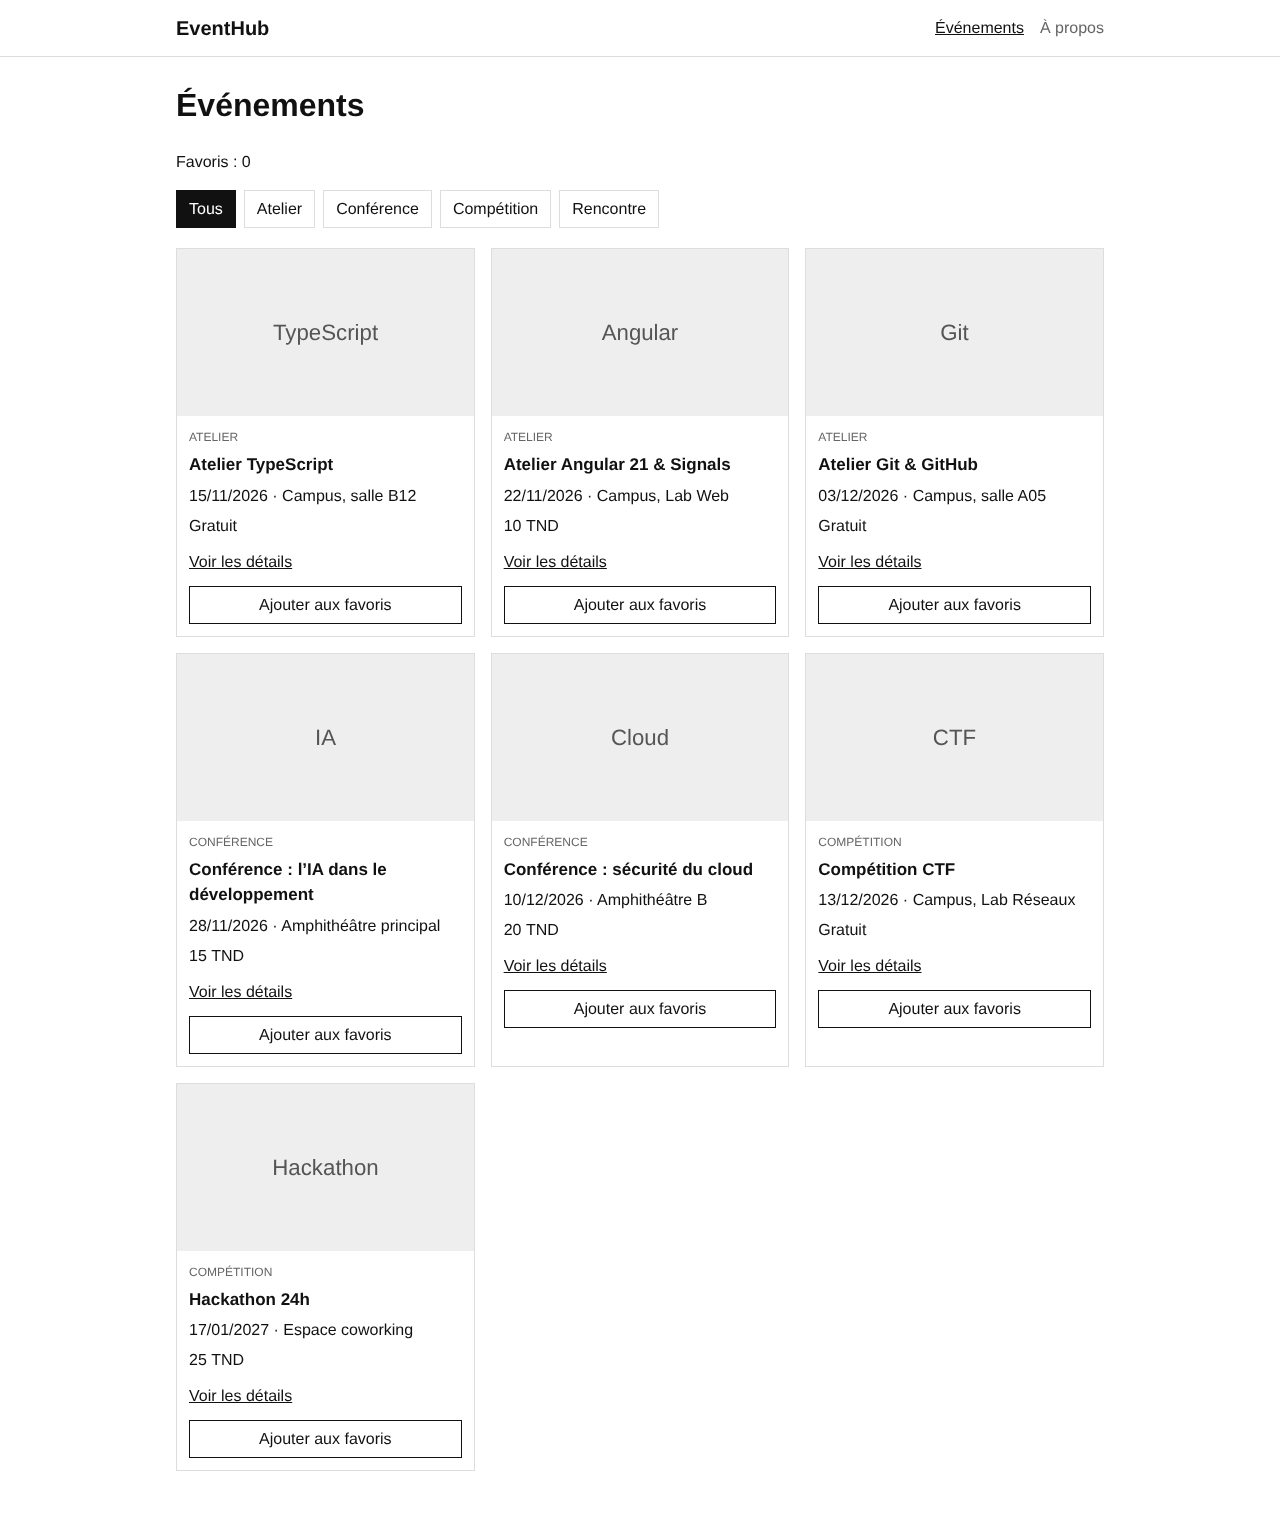
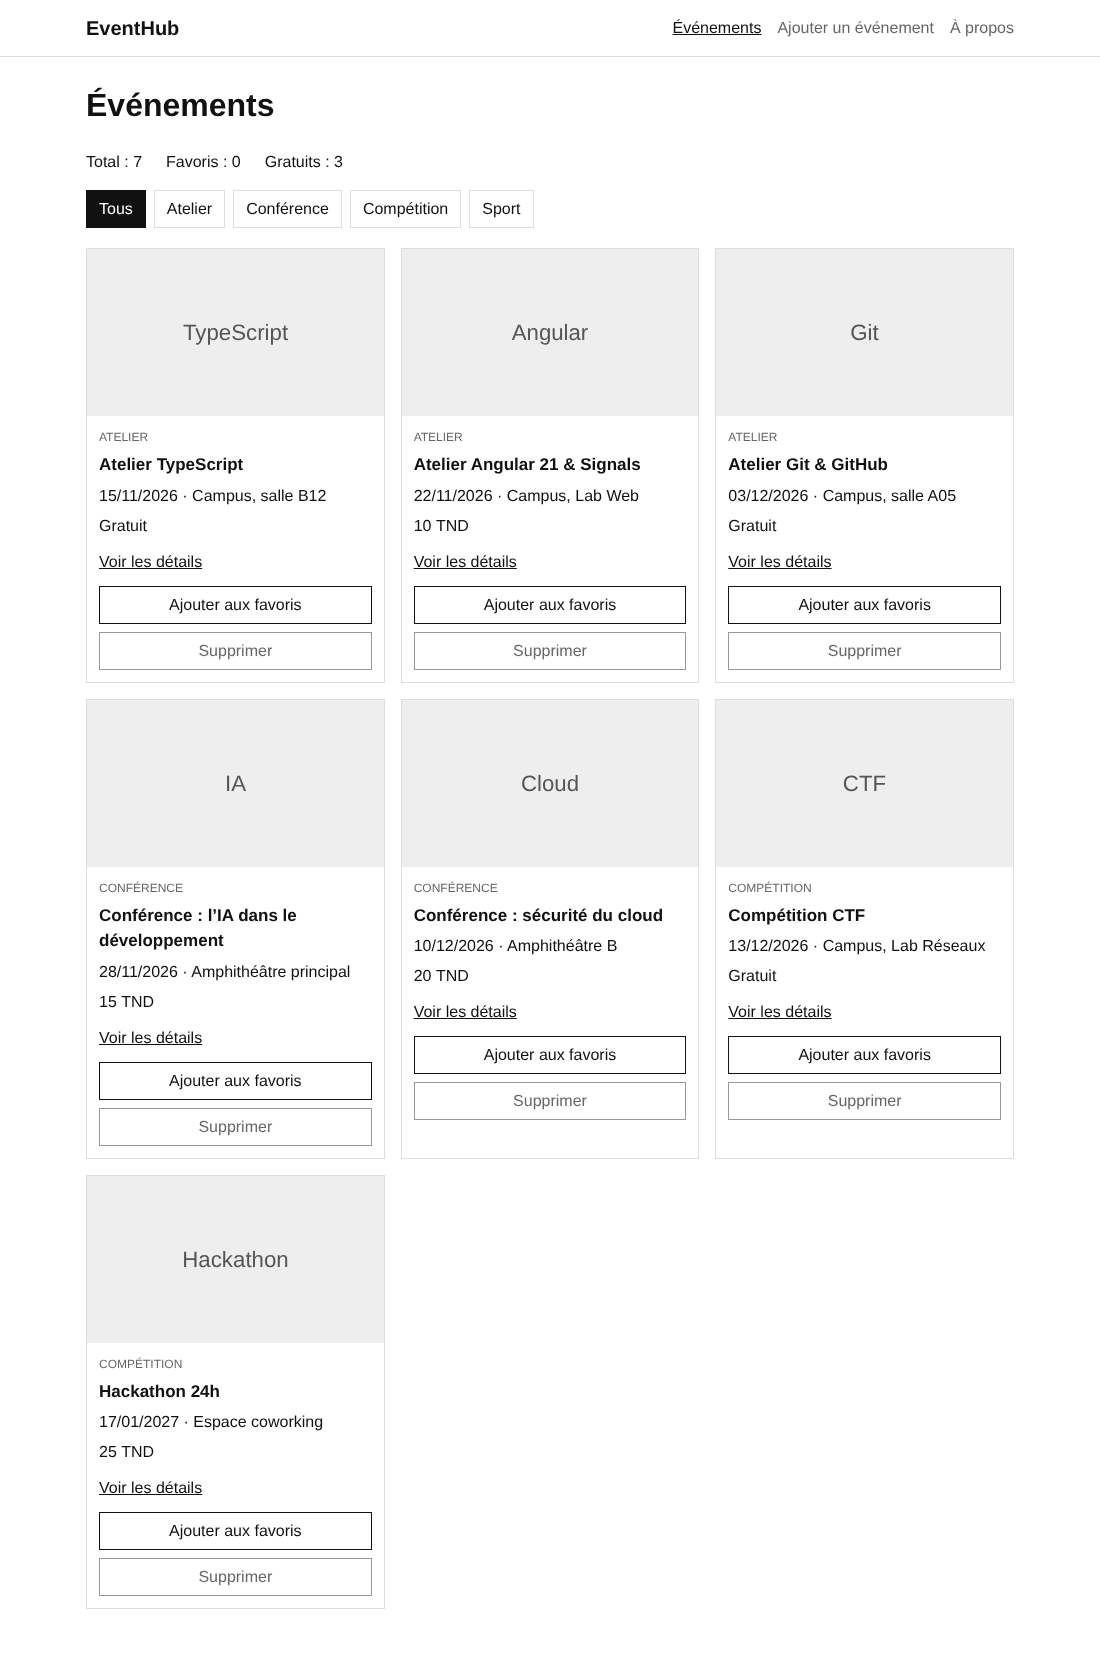
Mise à jour du README et des captures pour la Partie 2
- Fonctionnalités et choix techniques de la Partie 2
- Tableau des tests manuels du formulaire et du service
- Captures du formulaire, des erreurs et de la liste avec les compteurs

diff --git a/README.md b/README.md
@@ -2,10 +2,15 @@
 
 Application Angular standalone qui présente les activités d'une association étudiante
 (ateliers, conférences, compétitions). On peut consulter les événements, les filtrer par
-catégorie, voir le détail d'un événement et gérer une liste de favoris.
+catégorie, voir le détail d'un événement, gérer une liste de favoris, ajouter un événement avec un
+formulaire et supprimer un événement.
 
-Tout est côté client : les données sont dans un tableau TypeScript (pas d'API, pas de base de
-données).
+Tout est côté client : les données sont gardées en mémoire dans un service Angular (pas d'API, pas
+de base de données). Elles reviennent à l'état initial quand on recharge la page.
+
+- **Partie 1** : composants, Signals, `input()` / `output()`, control flow, pipes, routage.
+- **Partie 2** : formulaire réactif avec validations, service `EventService` qui partage les
+  données entre les pages avec des Signals.
 
 **Auteur :** Jihed Ramedi
 
@@ -35,58 +40,132 @@ src/app/
 ├── app.routes.ts              routes
 ├── app.config.ts              provideRouter, withComponentInputBinding, locale fr
 ├── models/event-item.ts       interface EventItem
-├── data/events.data.ts        les 7 événements
+├── services/
+│   └── event.service.ts       les événements, les favoris et les compteurs (Signals)
 ├── components/
 │   ├── header/
 │   └── event-card/
 └── pages/
     ├── event-list/
     ├── event-details/
+    ├── event-form/
     ├── not-found/
     └── about/
 ```
 
 ## Rôle des composants
 
-- **Header** : titre de l'application et menu de navigation. `routerLinkActive` souligne la page active.
-- **EventList** : page `/events`. Contient les Signals (événements, favoris, catégorie choisie) et affiche les cartes avec `@for`.
-- **EventCard** : affiche un événement reçu avec `input()` et prévient EventList avec `output()` quand on clique sur le bouton favori.
-- **EventDetails** : page `/events/:id`. Récupère l'id de l'URL avec `input()` et affiche l'événement, ou un message s'il n'existe pas.
+- **EventService** : source unique des données. Contient les Signals privés `_events` et `_favorites`, les expose en lecture seule et fournit les compteurs et les méthodes de modification.
+- **Header** : titre de l'application et menu de navigation (Événements, Ajouter un événement, À propos). `routerLinkActive` souligne la page active.
+- **EventList** : page `/events`. Lit les événements et les compteurs depuis le service, garde la catégorie choisie dans un Signal et affiche les cartes avec `@for`.
+- **EventCard** : affiche un événement reçu avec `input()` et prévient EventList avec `output()` quand on clique sur « Ajouter aux favoris » ou « Supprimer ».
+- **EventForm** : page `/events/add`. Formulaire réactif de création d'un événement.
+- **EventDetails** : page `/events/:id`. Récupère l'id de l'URL avec `input()` et demande l'événement au service, ou affiche un message s'il n'existe pas.
 - **NotFound** : page affichée pour une URL inconnue (route `**`).
 - **About** : page de présentation, chargée en lazy loading avec `loadComponent()`.
 
 ## Fonctionnalités
 
+### Partie 1
+
 - Liste des événements avec `@for (...; track event.id)` et `@empty` (« Aucun événement disponible »).
 - Pipes `date`, `currency` et `uppercase`.
-- Favoris : le bouton de la carte émet un `output()`, EventList met à jour le Signal `favorites` avec `update()`. Le compteur est un `computed()`. La carte en favori a une bordure noire (`[class.active]`) et le texte du bouton change (`@if / @else`).
-- Filtre par catégorie : la catégorie choisie est dans un Signal, la liste affichée est un `computed()`. La catégorie « Rencontre » n'a pas encore d'événement, elle sert à tester `@empty`.
+- Favoris : le bouton de la carte émet un `output()`, EventList demande au service de mettre à jour les favoris. La carte en favori a une bordure noire (`[class.active]`) et le texte du bouton change (`@if / @else`).
+- Filtre par catégorie : la catégorie choisie est dans un Signal, la liste affichée est un `computed()`. Au départ la catégorie « Sport » n'a aucun événement, elle sert à tester `@empty`.
 - Routes : `/events`, `/events/:id`, `/about`, `**`, et redirection de `''` vers `/events`.
 - Lazy loading de `/about` : un fichier JS séparé est chargé à la première visite (visible dans l'onglet Network).
 - Mise en page simple et responsive (grille CSS qui passe à une colonne sur téléphone).
 
+### Partie 2
+
+**Formulaire réactif (`EventForm`)**
+
+- `FormGroup` nommé `eventForm`, relié au template avec `[formGroup]` et `formControlName`.
+
+| Champ | Type | Validation |
+| --- | --- | --- |
+| title | text | `required`, `minLength(5)`, `maxLength(50)` |
+| category | select | `required` (Atelier, Conférence ou Sport) |
+| date | date | `required` |
+| place | text | `required`, `minLength(3)` |
+| price | number | `required`, `min(0)` |
+| imageUrl | text | facultatif (image par défaut si vide) |
+| description | textarea | `required`, `minLength(20)` |
+
+- Un message d'erreur adapté s'affiche sous un champ invalide seulement après qu'il a été touché (`invalid && touched`, puis `hasError()` pour choisir le message).
+- Le bouton « Ajouter » est désactivé tant que le formulaire est invalide (`[disabled]="eventForm.invalid"`).
+- `formValue` et `formStatus` sont créés avec `toSignal()` à partir de `valueChanges` et `statusChanges`. Ils sont affichés en direct sous le formulaire (JSON et statut VALID / INVALID).
+- `addEvent()` vérifie le formulaire, récupère les valeurs, appelle `eventService.addEvent()`, fait `reset()` puis navigue vers `/events`.
+
+**Service et Signals (`EventService`)**
+
+- `@Injectable({ providedIn: 'root' })` : une seule instance pour toute l'application, injectée avec `inject()`.
+- Signals privés `_events` et `_favorites`, exposés avec `asReadonly()` : les composants peuvent lire mais pas modifier.
+- Compteurs `computed()` affichés dans EventList : `eventCount` (total), `favoriteCount` (favoris), `freeEventCount` (gratuits).
+- Méthodes (toutes les modifications passent par `set()` ou `update()`) :
+
+| Méthode | Rôle |
+| --- | --- |
+| `getEventById(id)` | retrouve un événement par son id |
+| `addEvent(event)` | reçoit un événement sans id, lui donne un id unique et l'ajoute |
+| `deleteEvent(id)` | supprime l'événement et retire son id des favoris |
+| `toggleFavorite(id)` | ajoute ou retire l'id des favoris |
+
+- Bouton « Supprimer » sur chaque carte : la carte émet `deleteClicked`, EventList demande une confirmation (`confirm()`) puis appelle le service. La liste et les compteurs se mettent à jour tout seuls.
+- Route `/events/add` déclarée avant `/events/:id` et lien « Ajouter un événement » dans le menu.
+
 ## Choix techniques
 
-- Les événements sont dans `data/events.data.ts` car EventList et EventDetails en ont besoin tous les deux.
+- Les événements sont dans `EventService` : EventList, EventDetails et EventForm utilisent la même instance, donc un ajout ou une suppression se voit partout immédiatement. Les favoris sont aussi dans le service, ils ne sont plus perdus quand on change de page.
+- Signals privés + `asReadonly()` : seul le service peut modifier les données, les composants passent par ses méthodes.
+- L'id est généré dans le service avec un compteur `nextId` qui ne redescend jamais : un événement ajouté après une suppression ne reprend pas l'id de l'événement supprimé.
+- `deleteEvent()` retire aussi l'id des favoris, sinon `favoriteCount` compterait un événement qui n'existe plus.
+- Les contrôles du formulaire sont `nonNullable` : `reset()` remet les valeurs de départ (`''`, `0`) au lieu de `null`, et les types restent `string` / `number`.
+- Le type reste `EventItem` (et pas `Event`) pour ne pas le confondre avec le type `Event` du DOM.
 - Les favoris sont stockés sous forme d'ids : plus simple à comparer et pas de doublons.
 - `update()` retourne un nouveau tableau (`[...list, id]`, `filter`) : si on modifie le tableau avec `push`, le Signal ne détecte pas le changement.
-- EventCard ne modifie pas les favoris elle-même : elle prévient le parent, qui reste le seul à changer l'état.
+- EventCard ne modifie ni les favoris ni la liste elle-même : elle prévient le parent avec `output()`, qui appelle le service.
 - `input()` avec `withComponentInputBinding()` au lieu d'ActivatedRoute : moins de code et l'id est directement un Signal.
-- La route `**` est en dernier car le routeur prend la première route qui correspond.
+- La route `**` est en dernier et `/events/add` est avant `/events/:id`, car le routeur prend la première route qui correspond.
 
-## Tests manuels
+## Tests
+
+### Tests unitaires
+
+`ng test` lance les tests de `App` et de `EventService` (compteurs, ajout, id unique après
+suppression, favoris après suppression).
+
+### Tests manuels : Partie 1
 
 | Cas | Résultat attendu | OK |
 | --- | --- | --- |
 | Affichage initial | `/` redirige vers `/events`, 7 événements | ✅ |
 | Filtre | « Atelier » affiche 3 événements | ✅ |
-| Liste vide | « Rencontre » affiche « Aucun événement disponible » | ✅ |
+| Liste vide | « Sport » affiche « Aucun événement disponible » | ✅ |
 | Favoris | ajout et retrait mettent à jour le compteur et la carte | ✅ |
 | Détail | « Voir les détails » ouvre `/events/2` | ✅ |
 | Id inexistant | `/events/999` affiche « Événement introuvable » | ✅ |
 | Lien actif | le lien de la page courante est souligné | ✅ |
 | URL inconnue | `/xyz` affiche la page 404 | ✅ |
 | /about | un chunk JS est chargé à la première visite | ✅ |
+
+### Tests manuels : Partie 2
+
+| Cas | Résultat attendu | OK |
+| --- | --- | --- |
+| Formulaire vide | bouton « Ajouter » désactivé, statut INVALID, pas d'erreur avant d'avoir touché un champ | ✅ |
+| Champs touchés vides | « Le titre est obligatoire. », « Le lieu est obligatoire. »… | ✅ |
+| Titre trop court | « Foot » affiche « au moins 5 caractères » | ✅ |
+| Prix négatif | « -5 » affiche « supérieur ou égal à 0 » | ✅ |
+| Événement valide | statut VALID, JSON à jour en direct, bouton actif | ✅ |
+| Ajout | retour sur `/events`, le nouvel événement apparaît tout de suite (id 8) | ✅ |
+| Compteurs | après l'ajout d'un événement gratuit : Total 7 → 8, Gratuits 3 → 4 | ✅ |
+| Formulaire après ajout | les champs sont vides quand on revient sur `/events/add` | ✅ |
+| Suppression annulée | « Annuler » dans la confirmation : rien ne change | ✅ |
+| Suppression | l'événement disparaît, Total diminue | ✅ |
+| Favoris après suppression | supprimer un favori fait baisser « Favoris » | ✅ |
+| Navigation | les favoris restent après un passage par une autre page | ✅ |
+| `/events/add` | affiche le formulaire, pas « Événement introuvable » | ✅ |
 
 ## Captures d'écran
 
@@ -101,6 +180,18 @@ Filtre « Conférence » avec un favori :
 Détail d'un événement :
 
 ![Détail](docs/screenshots/04-details.png)
+
+Formulaire valide avec le suivi en direct (Partie 2) :
+
+![Formulaire](docs/screenshots/06-formulaire.png)
+
+Messages d'erreur du formulaire :
+
+![Erreurs du formulaire](docs/screenshots/08-formulaire-erreurs.png)
+
+Liste avec les trois compteurs, deux favoris et l'événement ajouté :
+
+![Liste et compteurs](docs/screenshots/07-liste-compteurs.png)
 
 Sur téléphone :
 
